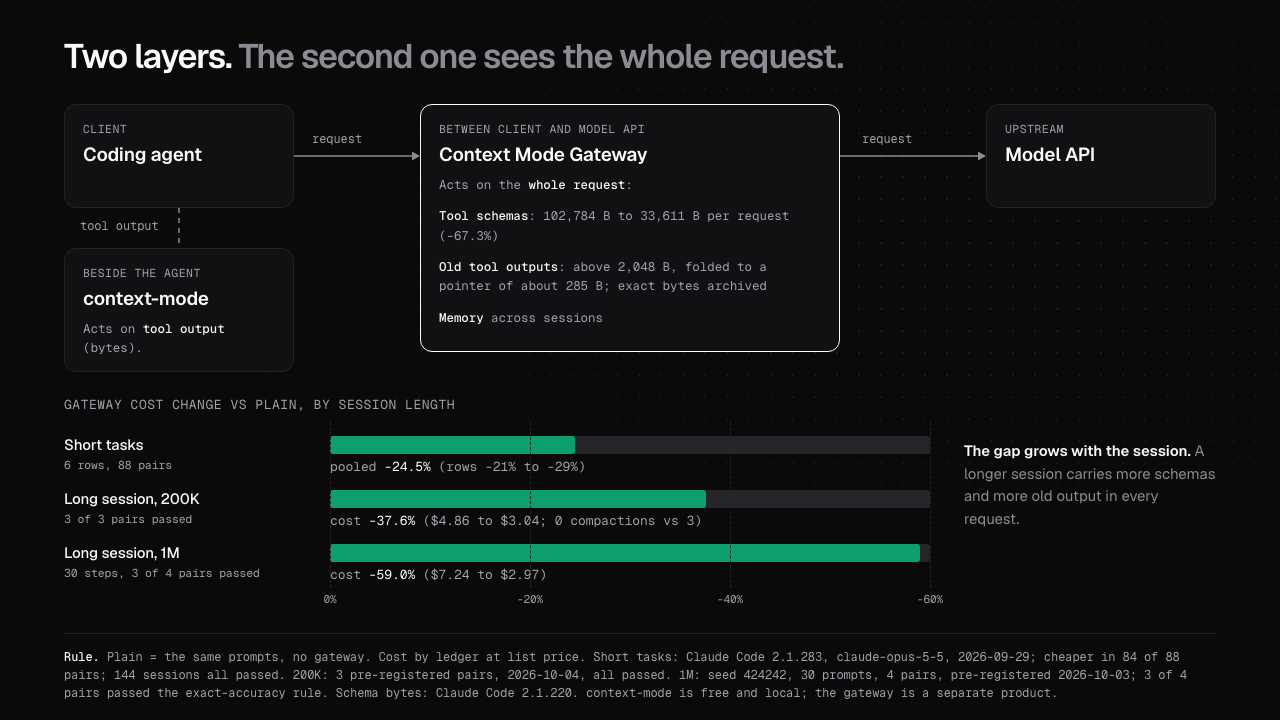
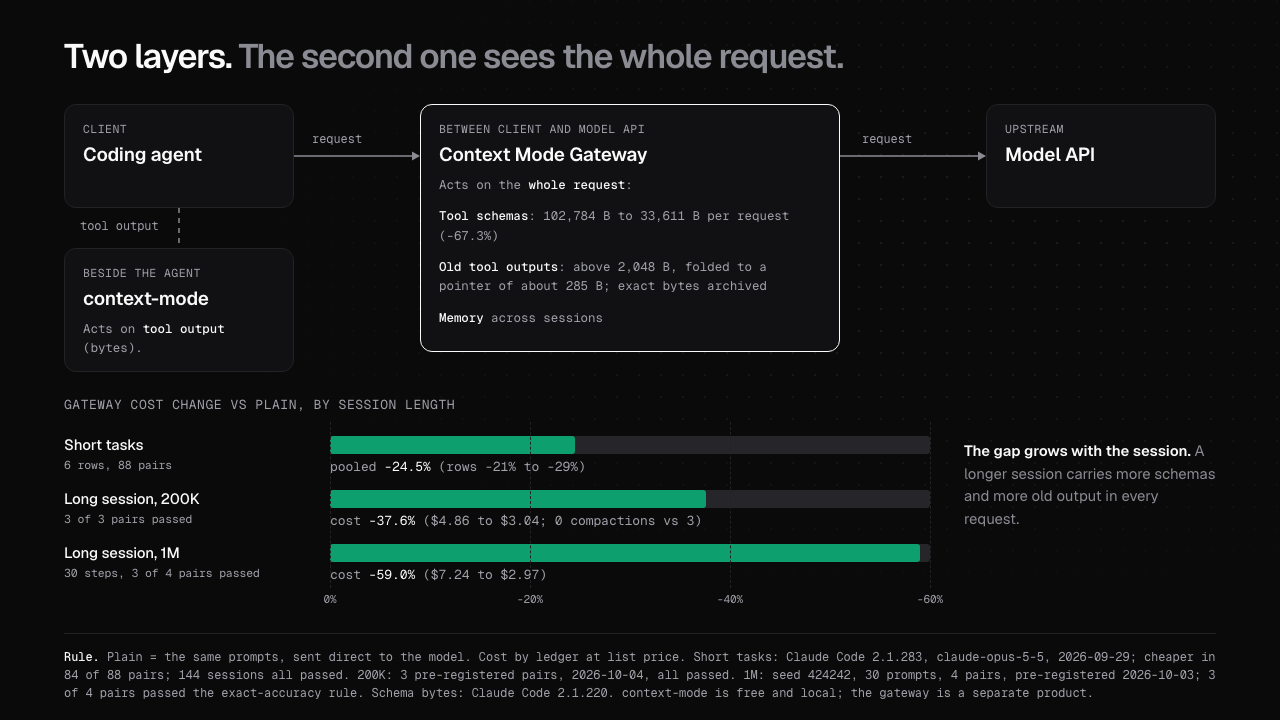
docs(readme): state every line in positive form
Rewrite README prose and the fig-flow / fig-layers figure text so each
line says what Context Mode does or what holds. Drop the "Not a cost
feature" cells and the Limitations-style list (now "## Scope").
Numbers, links and measurements unchanged; figures re-rendered at 2x.

Changed region(s): [[0.0625, 0.8861, 0.9375, 0.9778]]

diff --git a/docs/assets/readme/src/fig-flow.html b/docs/assets/readme/src/fig-flow.html
@@ -16,18 +16,18 @@
 <div class="box" data-box style="left:64px;top:122px"><div class="t">Agent</div><div class="s">Claude Code, Codex, Gemini CLI, Pi, and 6 more. Runs a tool.</div></div>
 <div class="box" data-box style="left:352px;top:122px"><div class="t">Hook</div><div class="s">PreToolUse denies a big Read and names the exact <b>ctx_execute</b> call. A hook failure ends in exit 0.</div></div>
 <div class="box" data-box style="left:640px;top:122px"><div class="t">ctx_* MCP server</div><div class="s"><b>ctx_execute</b>, <b>ctx_batch</b>, <b>ctx_index</b>, <b>ctx_search</b>, and 5 more tools.</div></div>
-<div class="box" data-box style="left:928px;top:122px"><div class="t">Sandbox / SQLite FTS5</div><div class="s">Code runs in a subprocess; only printed output returns. One <b>context.db</b> per project; BM25 and trigram.</div></div>
+<div class="box" data-box style="left:928px;top:122px"><div class="t">Sandbox / SQLite FTS5</div><div class="s">Code runs in a subprocess; its printed output returns. One <b>context.db</b> per project; BM25 and trigram.</div></div>
 
 <div class="n" style="top:350px">When the host compacts</div>
 <div class="box" data-box style="left:64px;top:372px"><div class="t">Compaction</div><div class="s">The host fires PreCompact, or its own event. The hook reads the journal.</div></div>
-<div class="box" data-box style="left:352px;top:372px"><div class="t">Snapshot</div><div class="s">State block of 2,048 B at most. A long line becomes a <b>ctx_resume(seq)</b> pointer; no line is cut.</div></div>
+<div class="box" data-box style="left:352px;top:372px"><div class="t">Snapshot</div><div class="s">State block of 2,048 B at most. A long line becomes a <b>ctx_resume(seq)</b> pointer; every line stays whole.</div></div>
 <div class="box" data-box style="left:640px;top:372px"><div class="t">Resume</div><div class="s">Next prompt: a recall block of whole rows, 2,048 B at most. <b>ctx_resume</b> reads a full row.</div></div>
 <div class="box gw" data-box style="left:928px;top:372px;border-width:1px;border-color:var(--card-b)"><div class="t">Agent carries on</div><div class="s">Same task, same files, small context.</div></div>
 
 <svg width="1280" height="640" id="sv"></svg>
 <div class="lb" style="left:640px;top:284px">small reply</div>
 
-<div class="cap"><b>Reading the figure.</b> Top: a tool call goes through the hook to the MCP server; the sandbox and the index keep the raw output; a small reply returns. Bottom: the journal in <b>context.db</b> feeds the snapshot and the resume. "Sandbox" means output stays out of the context. It is not OS isolation: the code runs as your user. Source: context-mode 2.0.0-next.20, src/core, checked 2026-11-01.</div>
+<div class="cap"><b>Reading the figure.</b> Top: a tool call goes through the hook to the MCP server; the sandbox and the index keep the raw output; a small reply returns. Bottom: the journal in <b>context.db</b> feeds the snapshot and the resume. "Sandbox" means output stays in the sandbox, out of the context. The code runs on your host as your user. Source: context-mode 2.0.0-next.20, src/core, checked 2026-11-01.</div>
 </main>
 <script>
 var sv=document.getElementById('sv'),NS='http://www.w3.org/2000/svg';

diff --git a/docs/assets/readme/src/fig-layers.html b/docs/assets/readme/src/fig-layers.html
@@ -47,7 +47,7 @@
 <div id="ticks"></div>
 <div class="note"><b>The gap grows with the session.</b> A longer session carries more schemas and more old output in every request.</div>
 
-<div class="cap"><b>Rule.</b> Plain = the same prompts, no gateway. Cost by ledger at list price. Short tasks: Claude Code 2.1.283, claude-opus-5-5, 2026-09-29; cheaper in 84 of 88 pairs; 144 sessions all passed. 200K: 3 pre-registered pairs, 2026-10-04, all passed. 1M: seed 424242, 30 prompts, 4 pairs, pre-registered 2026-10-03; 3 of 4 pairs passed the exact-accuracy rule. Schema bytes: Claude Code 2.1.220. context-mode is free and local; the gateway is a separate product.</div>
+<div class="cap"><b>Rule.</b> Plain = the same prompts, sent direct to the model. Cost by ledger at list price. Short tasks: Claude Code 2.1.283, claude-opus-5-5, 2026-09-29; cheaper in 84 of 88 pairs; 144 sessions all passed. 200K: 3 pre-registered pairs, 2026-10-04, all passed. 1M: seed 424242, 30 prompts, 4 pairs, pre-registered 2026-10-03; 3 of 4 pairs passed the exact-accuracy rule. Schema bytes: Claude Code 2.1.220. context-mode is free and local; the gateway is a separate product.</div>
 </main>
 <script>
 var sv=document.getElementById('sv'),NS='http://www.w3.org/2000/svg';

diff --git a/README.md b/README.md
@@ -5,7 +5,7 @@
 [![users](https://img.shields.io/badge/dynamic/json?url=https%3A%2F%2Fcdn.jsdelivr.net%2Fgh%2Fmksglu%2Fcontext-mode%40main%2Fstats.json&query=%24.message&label=users&color=brightgreen)](https://www.npmjs.com/package/context-mode) [![npm](https://img.shields.io/badge/dynamic/json?url=https%3A%2F%2Fcdn.jsdelivr.net%2Fgh%2Fmksglu%2Fcontext-mode%40main%2Fstats.json&query=%24.npm&label=npm&color=blue)](https://www.npmjs.com/package/context-mode) [![marketplace](https://img.shields.io/badge/dynamic/json?url=https%3A%2F%2Fcdn.jsdelivr.net%2Fgh%2Fmksglu%2Fcontext-mode%40main%2Fstats.json&query=%24.marketplace&label=marketplace&color=blue)](https://github.com/mksglu/context-mode) [![GitHub stars](https://img.shields.io/github/stars/mksglu/context-mode?style=flat&color=yellow)](https://github.com/mksglu/context-mode) [![Hacker News 570+ points](https://img.shields.io/badge/Hacker%20News-570%2B%20points-ff6600?logo=ycombinator&logoColor=white)](https://news.ycombinator.com/item?id=47193064) [![GitHub Trending](https://img.shields.io/badge/GitHub-Trending-black?logo=github)](https://github.com/uibm/trending-watcher/issues?q=%22mksglu%2Fcontext-mode%22) [![Discord](https://img.shields.io/discord/1478479412700909750?label=Discord&logo=discord&color=5865f2)](https://discord.gg/DCN9jUgN5v) [![License: ELv2](https://img.shields.io/badge/License-ELv2-blue.svg)](LICENSE)
 
 > **Context Mode Gateway** is the paid layer. It runs between your agent and the model API and adds Recall for long sessions, Memory, Skills, Search, Protect and request-level saving.
-> Free: 1,000 requests a month, every feature, no card. Start at [contextmode.ai](https://contextmode.ai). Plans: [https://contextmode.ai/pricing](https://contextmode.ai/pricing).
+> Free: 1,000 requests a month, every feature, card-free. Start at [contextmode.ai](https://contextmode.ai). Plans: [https://contextmode.ai/pricing](https://contextmode.ai/pricing).
 
 <picture>
   <source media="(prefers-color-scheme: dark)" srcset="docs/assets/readme/hero-dark.png">
@@ -41,10 +41,10 @@
 
 A coding agent reads files, runs commands and fetches pages, and every result goes into its context window.
 One Playwright snapshot is 57.5 KB; one access log is 46.2 KB. The window fills, the agent compacts, and it forgets what it was doing.
-Context Mode runs the tool work in a local sandbox, keeps the full output in a per-project SQLite index, and returns only what the agent asks for.
+Context Mode runs the tool work in a local sandbox, keeps the full output in a per-project SQLite index, and returns what the agent asks for.
 On the 25 bench rows with 10 KB or more of raw output, it cut the bytes that reach the context by a median of 98.8%, measured with `ctx_bytes` against `raw_bytes`, 5 runs each.
-Context Mode Gateway works on the whole request and the whole account. On a pre-registered long session with a 200K window it cut cost from $4.86 to $3.04 (2026-10-04) (-37.6%), and the session never compacted.
-You can use both layers together. This paper gives the method, the numbers with their raw files, and the limits.
+Context Mode Gateway works on the whole request and the whole account. On a pre-registered long session with a 200K window it cut cost from $4.86 to $3.04 (2026-10-04) (-37.6%), and the session ran to the end with 0 compactions.
+You can use both layers together. This paper gives the method, the numbers with their raw files, and the test setup behind each one.
 
 ## 1. The problem
 
@@ -63,7 +63,7 @@ Each tool result goes into the context window whole. Table 1 lists real outputs 
 | Docs page through WebFetch | 215,354 B | 435 B | 99.8% |
 
 Rule for every headline number in this paper: rows with 10 KB or more of raw output, median per category.
-The full results file has [every row, including small outputs where there is little to save](bench/results/2026-10-31-darwin-arm64.md).
+The full results file has [every row, including small outputs, where the cut is smaller](bench/results/2026-10-31-darwin-arm64.md).
 
 ## 2. Results
 
@@ -86,12 +86,12 @@ The full results file has [every row, including small outputs where there is lit
 
 Search replies (category b) return text on purpose; they are in the full file. Bench on 2.0.0-next.8, macOS arm64, 2026-10-31.
 Reproduce: `cd bench && node run.mjs`. Method and every data file: [bench/README.md](bench/README.md), [bench/evidence/](bench/evidence/README.md).
-We measured bytes, not dollars, so the plugin makes no cost claim.
+The plugin numbers are bytes; the dollar numbers come from the Gateway runs in Table 3.
 
 ### 2.1 Case studies
 
 **Case 1. A browser snapshot.** Problem: one Playwright snapshot is 57,521 B, and an agent takes many per task.
-Action: the agent runs the snapshot through `ctx_execute` and prints only the fields it needs.
+Action: the agent runs the snapshot through `ctx_execute` and prints the fields it needs.
 Result: 315 B reach the context, a 99.5% cut, measured over 5 runs.
 
 **Case 2. A docs page.** Problem: a WebFetch of the SQLite FTS5 page returns 215,354 B.
@@ -100,7 +100,7 @@ Result: a 435 B reply instead of 215,354 B, a 99.8% cut. The hook took 54 ms.
 
 **Case 3. A long session (Gateway).** Problem: a long Claude Code session on a 200K window compacts, and the agent loses its place.
 Action: the same task through Context Mode Gateway with Recall, 3 pairs, with a rule fixed before the run.
-Result: cost fell from $4.86 to $3.04 (2026-10-04) (-37.6%). Direct compacted 3 times; the Gateway session never compacted. 3 of 3 pairs passed.
+Result: cost fell from $4.86 to $3.04 (2026-10-04) (-37.6%). Direct compacted 3 times; the Gateway session had 0 compactions. 3 of 3 pairs passed.
 
 ### 2.2 Two layers: the gap grows with session length
 
@@ -119,13 +119,13 @@ Result: cost fell from $4.86 to $3.04 (2026-10-04) (-37.6%). Direct compacted 3 
 | Long session, 200K window (2026-10-03/04) | $4.86 | $3.04 | -37.6% | 3 of 3 pre-registered pairs passed; 0 compactions against 3 | [ab.json](https://contextmode.ai/benchmarks/recall/200k-r2/ab.json) |
 | Long session, 1M window, 30 steps (2026-10-03) | $7.24 | $2.97 | -59.0% | 3 of 4 pairs passed the exact-accuracy rule | [ab.json](https://contextmode.ai/benchmarks/long-session/amendment-4/ab.json) |
 
-The longer the session, the more the Gateway saves: a short task has little history to fold.
+The longer the session, the more the Gateway saves: a long session has more history to fold.
 On the five counted "try it" prompts (2026-10-22, Claude Opus 5.5) the Gateway cost 43.8% less, but it passed the task check in 15 of 20 sessions against 20 of 20 direct.
 We fixed the rules before each run: [contextmode.ai/docs/benchmarks](https://contextmode.ai/docs/benchmarks).
 
 ## Install
 
-Use your agent's own install command. You need Node 24.15.0 or later (v2 uses the built-in `node:sqlite`). On Windows you also need Git for Windows: the shell tools run in Git Bash, and `context-mode doctor` check D11 (shell) fails without it.
+Use your agent's own install command. You need Node 24.15.0 or later (v2 uses the built-in `node:sqlite`). On Windows you also need Git for Windows: the shell tools run in Git Bash, and `context-mode doctor` check D11 (shell) checks for it.
 
 | Agent | Install | Update |
 |---|---|---|
@@ -140,21 +140,21 @@ Until v2 is on `main`, `main` holds the old build (1.0.169), so the four GitHub-
 
 After v2 is on main: `claude plugin marketplace add mksglu/context-mode`, `codex plugin marketplace add mksglu/context-mode`, `gemini extensions install https://github.com/mksglu/context-mode`, `qwen extensions install https://github.com/mksglu/context-mode:context-mode`
 
-Already installed from GitHub without the ref? Each agent page has the steps to switch: see "Already installed from GitHub?" in [Claude Code](docs/install/claude-code.md#already-installed-from-github), [Codex](docs/install/codex.md#already-installed-from-github), [Gemini CLI](docs/install/gemini.md#already-installed-from-github) and [Qwen Code](docs/install/qwen.md#already-installed-from-github).
+Already installed from GitHub on `main`? Each agent page has the steps to switch to the `release` ref: see "Already installed from GitHub?" in [Claude Code](docs/install/claude-code.md#already-installed-from-github), [Codex](docs/install/codex.md#already-installed-from-github), [Gemini CLI](docs/install/gemini.md#already-installed-from-github) and [Qwen Code](docs/install/qwen.md#already-installed-from-github).
 
-Copilot CLI, Kiro, VS Code and ZCode have no install command of their own for this package. Use npm, which also works for every other agent:
+Copilot CLI, Kiro, VS Code and ZCode install through npm, which works for every agent:
 
 ```sh
 npm i -g context-mode@next
 context-mode setup
 ```
 
-`next` is the v2 prerelease tag on npm. `latest` stays on the old release. A plain `npm i -g context-mode` does not install v2.
+`next` is the v2 prerelease tag on npm. `latest` points to the old release, so add `@next` to get v2.
 Restart the agent, then check: `context-mode doctor` (or `/ctx-doctor` in the agent). Each check prints PASS, or FAIL with the command that fixes it.
 `context-mode setup` is the fallback and the repair. It shows a plan, applies it, and rolls back an agent that fails.
 Uninstall: `context-mode setup --remove && npm rm -g context-mode`. Details: [docs/install/README.md](docs/install/README.md).
 
-Every agent gets hooks, the MCP server and the skills. The Install column is the agent's own install command, or the npm route when the agent has none.
+Every agent gets hooks, the MCP server and the skills. The Install column is the agent's own install command, or the npm route for the other four agents.
 
 <!-- agents:install:start (node build/readme-agents.mjs --write) -->
 | Agent | Hooks | MCP | Skills | Install | Guide |
@@ -186,21 +186,21 @@ Context Mode has three parts: hooks, an MCP server with nine tools, and one SQLi
 
 The hooks listen to four events: `SessionStart`, `UserPromptSubmit`, `PreToolUse`, `PostToolUse`. Gemini CLI, VS Code and OpenCode also send a compaction event; each host keeps its own event names.
 `PreToolUse` checks rules in a fixed order: the user's deny list, WebFetch, curl and HTTP or build commands, then Read and shell dumps.
-Context Mode denies a `Read` of a file over 16,384 B with no range, and the deny message names the exact `ctx_execute` call to use. A `Read` with a range still runs.
-A hook never errors. Every failure ends in exit 0 with the host's "allow" reply and one log line, so a bug in Context Mode never blocks your agent. Spawned hooks time out after 5,000 ms.
+Context Mode denies a full-file `Read` of a file over 16,384 B, and the deny message names the exact `ctx_execute` call to use. A `Read` with a range still runs.
+A hook always exits 0: on any error it gives the host's "allow" reply and writes one log line, so your agent keeps working. Spawned hooks time out after 5,000 ms.
 
 ### 3.2 Sandbox execution
 
 `ctx_execute` writes the script to a temp folder and runs it as a subprocess: shell, PowerShell, JavaScript, TypeScript, Python, or any runtime found on `PATH`.
-It starts the process with an argument list and no shell, in the project folder. The default and maximum timeout is 600,000 ms; on timeout it kills the whole process group (`taskkill /F /T` on Windows).
-The child gets the parent environment minus the preload variables (`NODE_OPTIONS`, `BUN_OPTIONS`, `DENO_OPTIONS` and similar). Only what the script prints comes back, cut on a whole character.
+It spawns the runtime directly from an argument list, in the project folder. The default and maximum timeout is 600,000 ms; on timeout it kills the whole process group (`taskkill /F /T` on Windows).
+The child gets the parent environment minus the preload variables (`NODE_OPTIONS`, `BUN_OPTIONS`, `DENO_OPTIONS` and similar). The agent gets what the script prints, cut on a whole character.
 
 ### 3.3 Index and search
 
 Each output goes into SQLite FTS5 twice: a Porter-stemmed table for words, and a trigram table for paths, names and parts of words.
 `ctx_search` ranks each table with BM25 and joins the two lists with Reciprocal Rank Fusion: a hit scores 1/(60 + rank) in each list.
-When nothing matches, it tries a spelling fix from the indexed words. Search covers one of three scopes: this session, this worktree (the default) or the whole project.
-Chunks are at most 4,096 B. A Markdown chunk never crosses a heading and carries its heading path as its title. A code block that fits in a chunk is never split; a bigger one splits on blank lines, and each piece repeats the fence.
+On zero matches, it tries a spelling fix from the indexed words. Search covers one of three scopes: this session, this worktree (the default) or the whole project.
+Chunks are at most 4,096 B. A Markdown chunk stays inside one heading section and carries its heading path as its title. A code block that fits in a chunk stays whole; a bigger one splits on blank lines, and each piece repeats the fence.
 A reply snippet is at most 800 B, or a whole code block up to 2,048 B.
 
 ### 3.4 Large output, run and replace
@@ -211,22 +211,22 @@ The agent gets the best-matching whole chunks and one `ctx_search` line for the 
 ### 3.5 Session continuity
 
 The hooks log each prompt, edit, command, tool error, index, cost and decision.
-After a compaction the agent gets a state block of at most 2,048 B built from that log. Context Mode cuts no line: a long line becomes a `ctx_resume(seq)` pointer that reads the full row.
-On the next prompt, a recall block of at most 2,048 B brings back the log rows that match it by BM25, whole rows only. The same rows always give the same bytes.
+After a compaction the agent gets a state block of at most 2,048 B built from that log. Every line stays whole: a long line becomes a `ctx_resume(seq)` pointer that reads the full row.
+On the next prompt, a recall block of at most 2,048 B brings back the log rows that match it by BM25, always as whole rows. The same rows always give the same bytes.
 
 ### 3.6 Storage
 
-Context Mode uses Node's built-in `node:sqlite`; no native module to build. Each project gets one `context.db` under `~/.context-mode`.
-The database runs in WAL mode. On close it runs a PASSIVE checkpoint and never TRUNCATE. Context Mode builds a new database under a temp name, then moves it into place in one step, so a crash leaves no half-made file. Busy timeout: 5,000 ms.
+Context Mode uses Node's built-in `node:sqlite`, so the install compiles zero native modules. Each project gets one `context.db` under `~/.context-mode`.
+The database runs in WAL mode. On close it always runs a PASSIVE checkpoint. Context Mode builds a new database under a temp name, then moves it into place in one step, so the file on disk is always complete, even after a crash. Busy timeout: 5,000 ms.
 
 ## 4. Tools
 
 | Tool | What it does |
 |---|---|
-| `ctx_execute` | Runs code or a shell command in a sandbox; returns only what it prints |
+| `ctx_execute` | Runs code or a shell command in a sandbox; returns what it prints |
 | `ctx_batch` | Runs many commands, indexes the output, and searches it in one call |
 | `ctx_index` | Indexes a file, a text or a URL into the project database |
-| `ctx_search` | Searches the index; returns the matching parts only |
+| `ctx_search` | Searches the index; returns the matching parts |
 | `ctx_resume` | Returns the state block, or one full row by `seq` |
 | `ctx_stats` | Shows how much output stayed out of context |
 | `ctx_doctor` | Checks the install; each FAIL line names its fix |
@@ -248,8 +248,8 @@ Full reference: [docs/tools.md](docs/tools.md).
 Every agent in the Install table gets hooks, the MCP server and the skills, through that agent's own install command.
 Hooks reach each agent in one of three ways: in the plugin package (Claude Code, Gemini CLI, Qwen Code), in a hook file (Codex, Copilot CLI, Kiro, VS Code, ZCode), or in-process (OpenCode, Pi).
 
-Live proof, written for 2.0.0-next.15: we watched the real agent binary run our hook in a temp home, with no login and no API key, for 8 of 10 agents.
-Not yet proven live: VS Code (the hook command works with the documented payload, but VS Code 1.144.0 sent no request) and Kiro (kiro-cli 2.35.2 loads all 6 entries, but we saw no hook fire).
+Live proof, written for 2.0.0-next.15: we watched the real agent binary run our hook in a clean temp home, logged out and with zero API keys, for 8 of 10 agents.
+VS Code and Kiro are at an earlier step: the VS Code hook command works with the documented payload (VS Code 1.144.0 sent 0 requests in the live run), and kiro-cli 2.35.2 loads all 6 hook entries (the live run recorded 0 hook fires).
 CI runs setup, doctor, a hook and an MCP handshake for all 10 agents from the packed package on Linux, macOS and Windows. Record: [docs/architecture/release/HOOKS-FIRE.md](docs/architecture/release/HOOKS-FIRE.md).
 
 ## 6. Performance
@@ -266,46 +266,44 @@ Rows per agent and per query: [docs/performance.md](docs/performance.md).
 
 ## 7. Security model
 
-- No telemetry. Context Mode sends no data about you or your code anywhere.
-- No LLM calls. Context Mode never calls a model.
-- All data stays in the `context.db` file of each project, on your machine.
+- All data stays on your machine, in `~/.context-mode`: one `context.db` per project.
+- Runs fully local: SQLite FTS5 and your own runtimes.
 - Network use: npm or git (to the release repository) when you install or upgrade, `git ls-remote` in doctor (to check for a new version), and your agent's own install steps.
-- `ctx_index` fetches a URL only when the agent asks for it. It blocks private and link-local addresses. It checks each address the host name points to, connects to the address it checked, and checks again at each redirect.
+- `ctx_index` fetches a URL when the agent asks for it. It blocks private and link-local addresses. It checks each address the host name points to, connects to the address it checked, and checks again at each redirect.
 - Doctor and the debug report remove secrets by their structure before they print.
 
-What the sandbox does not do: it does not isolate. There is no container, chroot, seccomp or namespace.
-Code from `ctx_execute` runs as you, with your environment (minus the preload variables), your whole file system and your network.
-Here "sandbox" means the output stays out of the context, not that the code is isolated. Keep your agent's own permission prompts on.
+Here "sandbox" means the output stays in the sandbox, out of the context.
+Code from `ctx_execute` runs on your host as your user, with your environment (minus the preload variables), your files and your network; keep your agent's own permission prompts on.
 
 ## 8. Context Mode Gateway
 
 Context Mode Gateway is the paid product. The plugin works beside the agent, on tool output. The Gateway runs between your agent and the model API and works on every request and the whole account.
-It adds what a local plugin cannot: Recall for sessions longer than the window, Memory shared by all your agents, Skills, Search over everything that passed through, and Protect.
+It adds account-wide features: Recall for sessions longer than the window, Memory shared by all your agents, Skills, Search over everything that passed through, and Protect.
 
 **Table 5.** Context Mode Gateway features, from [contextmode.ai/docs](https://contextmode.ai/docs/how-saving-works).
 
-| Feature | What it does | Measured result | Main limit |
+| Feature | What it does | What you get | Details |
 |---|---|---|---|
-| Context Saving | Folds old tool output, runs data work as code (Thinking in Code), trims tool schemas, places cache marks | Tool schemas 102,784 B to 33,611 B per request (-67.3%); a tool output over 2,048 B becomes a pointer of about 285 B, with the full copy archived | A short question with few tool calls leaves little to save; no Codex A/B yet |
-| Recall | The model sees recent work and an index of older work; the agent searches the archive for the rest | 200K window, 2026-10-04: $4.86 to $3.04 (-37.6%), 3 of 3 pre-registered pairs passed, 0 compactions against 3 | Cost measured in Claude Code on Claude Opus 5.5, not yet in Codex |
-| Memory | Each fact keeps two times: when it was true and when the Gateway learned it | Not a cost feature; Claude Code and Codex on one account share one store, tested end to end | Small evals so far; the memory block adds input tokens to a new session's first request |
-| Skills | A skill catalog on the Gateway for your account; it loads the skill that matches your message | Not a cost feature | Imports come from GitHub; a loaded skill adds its whole body to the prompt |
-| Search | Searches the prompts, commands and tool output that passed through, in the console and as an agent tool | Not a cost feature | The console searches the first 4,000 characters of each tool result |
-| Session resume | One command rebuilds a conversation as a native Claude Code or Codex session | Not a cost feature | Brings back text, tool names and a summary, not every tool output; the command expires after 15 minutes |
-| Active Context | Sets how much a thread carries before its oldest parts move to the archive: 200K, 500K or 1M tokens | Not a cost feature | An image older than the kept part becomes a short note and cannot be read back |
-| Instructions | One text of at most 4,096 characters that tells every agent how to answer you | Read from the provider cache after the first request | Changes how the agent writes, not what it does |
-| Protect | A tool-call firewall: checks shell commands, file reads and writes, web fetches and tool-server calls by what they do | No block-rate study yet | Reads the call, not the program: a script file or a path built at run time is not checked; off until you turn it on |
-| Prompt caching | Keeps requests cache-friendly: cache marks on the fixed part of the prompt and a cache for fetched pages | Inside the measured costs above | The provider accepts at most 4 cache marks |
-| Live and Analytics | Shows each request and what the Gateway saved, as it happens and over time | Not a cost feature | Sees only requests that pass through the Gateway |
+| Context Saving | Folds old tool output, runs data work as code (Thinking in Code), trims tool schemas, places cache marks | Tool schemas 102,784 B to 33,611 B per request (-67.3%); a tool output over 2,048 B becomes a pointer of about 285 B, with the full copy archived | Saves the most on sessions with many tool calls; A/B measured in Claude Code |
+| Recall | The model sees recent work and an index of older work; the agent searches the archive for the rest | 200K window, 2026-10-04: $4.86 to $3.04 (-37.6%), 3 of 3 pre-registered pairs passed, 0 compactions against 3 | Cost measured in Claude Code on Claude Opus 5.5 |
+| Memory | Each fact keeps two times: when it was true and when the Gateway learned it | Claude Code and Codex on one account share one store, tested end to end | The memory block goes into the first request of a new session |
+| Skills | A skill catalog on the Gateway for your account; it loads the skill that matches your message | The matching skill loads on the message that needs it | Import skills from GitHub; a loaded skill joins the prompt in full |
+| Search | Searches the prompts, commands and tool output that passed through, in the console and as an agent tool | Find any past prompt, command or tool output, from the console or your agent | The console searches the first 4,000 characters of each tool result |
+| Session resume | One command rebuilds a conversation as a native Claude Code or Codex session | Continue a conversation in Claude Code or Codex | Restores the text, tool names and a summary; the command is valid for 15 minutes |
+| Active Context | Sets how much a thread carries before its oldest parts move to the archive: 200K, 500K or 1M tokens | Pick the window size per thread | An image older than the kept part becomes a short text note |
+| Instructions | One text of at most 4,096 characters that tells every agent how to answer you | Read from the provider cache after the first request | Sets how the agent writes to you |
+| Protect | A tool-call firewall: checks shell commands, file reads and writes, web fetches and tool-server calls by what they do | Each call checked before it runs | Reads the call itself, so keep your agent's sandbox on for script files and paths built at run time; opt-in |
+| Prompt caching | Keeps requests cache-friendly: cache marks on the fixed part of the prompt and a cache for fetched pages | Inside the measured costs above | Uses up to 4 cache marks, the provider's maximum |
+| Live and Analytics | Shows each request and what the Gateway saved, as it happens and over time | See each request and its saving, live and over time | Covers every request that passes through the Gateway |
 
 Apps: Claude Code, Claude Desktop, Codex, Codex Desktop, T3 Code, OpenCode and Pi.
 Setup is one command, `npx @context-mode/cli`. It signs you in and writes one config change per agent (it needs Node 20.12 or later).
-Your own Claude or OpenAI account pays the model, and we add no fee on tokens.
-Every plan has every feature. Free: 1,000 requests a month, no card; the count starts again on the first day of each month (UTC).
+Your own Claude or OpenAI account pays the model directly, at the provider's price.
+Every plan has every feature. Free: 1,000 requests a month, card-free; the count starts again on the first day of each month (UTC).
 Plans and prices: [https://contextmode.ai/pricing](https://contextmode.ai/pricing). Enterprise can run in your own Cloudflare account, where you hold the data, the keys and the logs.
 
-Limits today: the Gateway does not run your code in an OS sandbox, has no SSO or team roles yet, and routes to Anthropic and OpenAI only.
-Requests pass through the Gateway server, so it is not local only. Protect reads the call, not the program, so keep your agent's sandbox on.
+The Gateway routes to Anthropic and OpenAI. Requests pass through the Gateway server on their way to the model.
+Keep your agent's own sandbox on next to Protect.
 
 **Start free at [contextmode.ai](https://contextmode.ai).**
 
@@ -323,25 +321,24 @@ Requests pass through the Gateway server, so it is not local only. Protect reads
 - **GitHub Trending.** A bot that watches GitHub Trending logged the repo there on 14 days from 2026-04-24 to 2026-10-17 ([uibm/trending-watcher](https://github.com/uibm/trending-watcher/issues?q=%22mksglu%2Fcontext-mode%22)).
 - **Companies.** Engineers at the companies under Figure 1 starred the repo.
 
-## Limitations
+## Scope
 
-- The bench measures bytes, not dollars or task success. A token count here is bytes / 4, an estimate.
-- Small outputs gain little. Search replies (category b) return text on purpose, so their cut is lower than the headline; the full file has it.
-- The bench ran on one machine (macOS arm64) on 2.0.0-next.8; the live hook proof is for 2.0.0-next.15.
-- VS Code and Kiro hooks are not yet proven live. Two Windows shell defects are open (Qwen Code, Kiro).
-- The sandbox does not isolate code from your system (section 7).
-- Gateway costs come from Claude Code on Claude Opus 5.5. On the 1M-window run, only 3 of 4 pairs passed the exact-accuracy rule. No Codex A/B yet.
-- Known gaps: [OPEN-ITEMS.md](https://github.com/mksglu/context-mode/blob/274600e2ffab843e89c1dfa09b0d649e650c962f/docs/v2/OPEN-ITEMS.md).
+- The plugin bench measures bytes. A token count here is bytes / 4, an estimate. Dollar results come from the Gateway runs.
+- Big outputs gain the most. Search replies (category b) return text on purpose, with a smaller cut; the full file lists them.
+- The bench ran on macOS arm64 on 2.0.0-next.8; the live hook proof is for 2.0.0-next.15.
+- Live hook proof covers 8 of 10 agents (section 5). Two Windows shell defects are open (Qwen Code, Kiro).
+- Gateway costs come from Claude Code on Claude Opus 5.5. On the 1M-window run, 3 of 4 pairs passed the exact-accuracy rule.
+- Open work and its status: [OPEN-ITEMS.md](https://github.com/mksglu/context-mode/blob/274600e2ffab843e89c1dfa09b0d649e650c962f/docs/v2/OPEN-ITEMS.md).
 
 ## License
 
 [Elastic License 2.0](LICENSE) (ELv2), source-available. You may use, copy, change and share the code, and use it at work.
-You may not do two things:
+The license keeps two uses for the licensor:
 
-1. Offer it to others as a hosted or managed service.
-2. Remove, hide or get around its license notices or license key functions.
+1. Offering it to others as a hosted or managed service.
+2. Removing, hiding or getting around its license notices or license key functions.
 
-We chose ELv2 so the source stays open to all, but no one can sell it back as a closed hosted service.
+We chose ELv2 so the source stays open to all and the hosted service stays with the project.
 
 ## Cite
 
@@ -361,6 +358,6 @@ If you use Context Mode in research, cite it as below. GitHub also reads [CITATI
 ## Support
 
 Report a defect on [Discord](https://discord.gg/DCN9jUgN5v) with the full `/ctx-doctor` report.
-Only v2 gets fixes. This repo does not take pull requests.
+Fixes go into v2. The maintainer writes every change; send ideas and defect reports on Discord.
 
 Docs: [docs/install/README.md](docs/install/README.md) (install, options, uninstall), [docs/how-it-works.md](docs/how-it-works.md), [docs/algorithms.md](docs/algorithms.md) (search, ranking, size limits, deny rules), [docs/tools.md](docs/tools.md), [bench/evidence/](bench/evidence/README.md).
